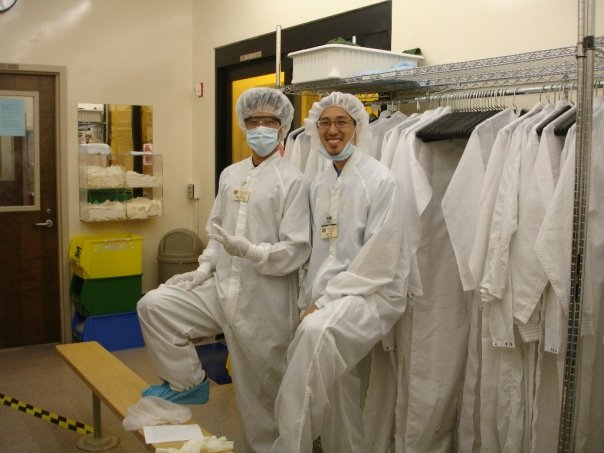
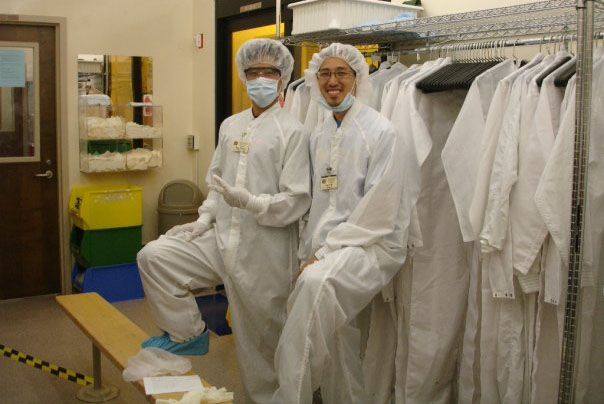
scroll functionality 99% done. standard formatting for photos (1.5 x 1 proportion)

diff --git a/index.html b/index.html
@@ -8,13 +8,13 @@
 <section class="brain-buttons">
 	<div class="right-button button">(stage) Right</div>
 	<div class="left-button button">(stage) Left</div>
-	<div class="right-arrows button hide">
-		<div class="right-up scroll-button">^^^^</div>
-		<div class="right-down scroll-button">vvvv</div>
+	<div class="right-arrows button">
+		<div class="right-up scroll-button hide">^^^^</div>
+		<div class="right-down scroll-button hide">vvvv</div>
 	</div>
-	<div class="left-arrows button hide">
-		<div class="left-up scroll-button">^^^^</div>
-		<div class="left-down scroll-button">vvvv</div>
+	<div class="left-arrows button">
+		<div class="left-up scroll-button hide">^^^^</div>
+		<div class="left-down scroll-button hide">vvvv</div>
 	</div>
 </section>
 <section class="headshot headshot-main">
@@ -49,13 +49,27 @@
 		<div class="stream-photo-frame frame-right" id="right-running">
 			<div class="stream-photo-frame-inner">
 				<img src="images/right/running.jpg" class="stream-photo"/>
-				<footer class="stream-caption">description</footer>
+				<footer class="stream-caption">
+					<header>
+						gimme at title
+					</header>
+					<p>
+						Lorem ipsum dolor sit amet, consectetur adipiscing elit. Curabitur augue dolor, aliquam in vehicula nec, eleifend id velit. Integer condimentum blandit purus ut pulvinar. Integer dictum sollicitudin bibendum. Curabitur ullamcorper lorem vitae placerat rhoncus. Phasellus eu quam nibh. Pellentesque at urna eu magna dignissim iaculis in aliquam purus. 
+					</p>
+				</footer>
 			</div>
 		</div>
 		<div class="stream-photo-frame frame-right" id="right-running">
 			<div class="stream-photo-frame-inner">
 				<img src="images/right/pokemon_conf.jpg" class="stream-photo"/>
-				<footer class="stream-caption">description</footer>
+				<footer class="stream-caption">
+					<header>
+						gimme at title
+					</header>
+					<p>
+						Lorem ipsum dolor sit amet, consectetur adipiscing elit. Curabitur augue dolor, aliquam in vehicula nec, eleifend id velit. Integer condimentum blandit purus ut pulvinar. Integer dictum sollicitudin bibendum. Curabitur ullamcorper lorem vitae placerat rhoncus. Phasellus eu quam nibh. Pellentesque at urna eu magna dignissim iaculis in aliquam purus. 
+					</p>
+				</footer>
 			</div>
 		</div>
 	</div>
@@ -77,7 +91,14 @@
 		<div class="stream-photo-frame frame-left" id="ucla-nanolab">
 			<div class="stream-photo-frame-inner">
 				<img src="images/left/ucla_nanolab.jpg" class="stream-photo"/>
-				<footer class="stream-caption">description!</footer>
+				<footer class="stream-caption">
+					<header>
+						gimme at title
+					</header>
+					<p>
+						Lorem ipsum dolor sit amet, consectetur adipiscing elit. Curabitur augue dolor, aliquam in vehicula nec, eleifend id velit. Integer condimentum blandit purus ut pulvinar. Integer dictum sollicitudin bibendum. Curabitur ullamcorper lorem vitae placerat rhoncus. Phasellus eu quam nibh. Pellentesque at urna eu magna dignissim iaculis in aliquam purus. 
+					</p>
+				</footer>
 			</div>
 		</div>
 	</div>

diff --git a/script.js b/script.js
@@ -36,11 +36,12 @@ function scrollAndStop(marker,offset,dir){
 			frameMarkerLeft = 0;
 			$('.panel-left').removeClass('on');
 			$('.panel-right').removeClass('on');
-			(marker == '.frame-right') ? $('.panel-left').addClass('on') : $('.panel-right').addClass('on');
+			$('.right-arrows .scroll-button').add($('.left-arrows .scroll-button')).addClass('hide');
+			// (marker == '.frame-right') ? $('.panel-left').addClass('on') : $('.panel-right').addClass('on');
 			//frameMarker++;
 		}
 		else{
-			if(!frameMarker >= 0) frameMarker -=2;
+			if(frameMarker >= 0) frameMarker -=2;
 			if(frameMarker < 0) frameMarker = 0;	
 			var $currMarker = $(marker);
 			for(x = 0; x < frameMarker; x++){
@@ -70,6 +71,8 @@ function adjustContentSpacing(currSection) {
 	$('.head-div').add($headshotMid).add($('.mid-stream-line')).css({'height':windowHeight/3});
 	$('.cover-stream-line').add($('.stream-line')).add($('.content')).css({'height':pageHeight});
 	$('.content-overlay').add($('.content-overlay-panel')).css({'height':pageHeight});
+	// $('.stream-photo-frame').css({'max-height':windowHeight/3});
+	$('.stream-photo').css({'max-height':windowHeight/3.2, 'max-width':'100%'});
 }
 
 function adjustContentOffset(currSection,num) {
@@ -98,6 +101,8 @@ $(document).ready(function(){
 		frameMarkerRight = 0;
 		scrollAndStop('.frame-right',windowHeight/3,'down');
 		setTimeout(function(){
+			$('.right-arrows .scroll-button').removeClass('hide');
+			$('.left-arrows .scroll-button').addClass('hide');
 			$('.panel-left').addClass('on');
 			$('.panel-right').removeClass('on');
 		},400);
@@ -107,6 +112,8 @@ $(document).ready(function(){
 		frameMarkerLeft = 0;
 		scrollAndStop('.frame-left',windowHeight/3,'down');
 		setTimeout(function(){
+			$('.left-arrows .scroll-button').removeClass('hide');
+			$('.right-arrows .scroll-button').addClass('hide');
 			$('.panel-left').removeClass('on');
 			$('.panel-right').addClass('on');
 		},400);
@@ -115,7 +122,7 @@ $(document).ready(function(){
 });
 
 $('.head-mid').waypoint(function(direction){
-	$('.cover-stream-line').add($('.button')).removeClass('hide');
+	$('.cover-stream-line').removeClass('hide');
 	$('.headshot-main').toggleClass('headshot-fixed');
 	$headshotMid.toggleClass('show');
 	if(direction=='down'){
@@ -133,10 +140,10 @@ $('.content').waypoint(function(direction){
 	}
 	else{
 		$('.headshot-mid').removeClass('bottom-border');
-		$('.panel-left').removeClass('on');
-		$('.panel-right').removeClass('on');
+		// $('.panel-left').removeClass('on');
+		// $('.panel-right').removeClass('on');
 	}
-},{offset:'33%'});
+},{offset:'34%'});
 
 $(body).waypoint(function(direction){
 	$('.headshot').addClass('hide');

diff --git a/style.css b/style.css
@@ -64,8 +64,8 @@ body {
 .content-overlay {
   position: fixed;
   width: 100%;
-  z-index: 999;
-  top: calc(33% + 6px); }
+  z-index: 799;
+  top: calc(33% ); }
   .content-overlay .content-overlay-panel {
     transition: all 0.2s ease-in;
     width: 48%;
@@ -78,6 +78,7 @@ body {
   background-color: #000;
   position: relative;
   margin: auto;
+  margin-bottom: 9em;
   z-index: 10; }
   .content .stream {
     text-align: center;
@@ -87,6 +88,13 @@ body {
     padding: 2.5%;
     padding-top: 0;
     width: 45%; }
+    @media only screen and (max-width: 800px) {
+      .content .stream {
+        padding-left: 1%;
+        padding-right: 1%;
+        width: 48%; } }
+    .content .stream.left-brain {
+      margin-top: 16.5%; }
     .content .stream .stream-line {
       position: absolute;
       width: 0px;
@@ -94,8 +102,7 @@ body {
       z-index: 1; }
     .content .stream .stream-photo-frame {
       position: relative;
-      padding: 1em;
-      margin: 1em;
+      padding-top: 1em;
       z-index: 2;
       transition: all 0.15s ease-in; }
       .content .stream .stream-photo-frame .stream-photo-frame-inner {
@@ -106,7 +113,6 @@ body {
         background-color: #000; }
         .content .stream .stream-photo-frame .stream-photo-frame-inner .stream-photo, .content .stream .stream-photo-frame .stream-photo-frame-inner .stream-caption {
           border-radius: 1em;
-          width: 100%;
           max-width: 480px;
           margin: auto;
           margin-top: 1em;

diff --git a/style.scss b/style.scss
@@ -104,8 +104,8 @@ body{
 .content-overlay{
 	position:fixed;
 	width:100%;
-	z-index:999;
-	top:calc(33% + 6px);
+	z-index:799;
+	top:calc(33% );
 	.content-overlay-panel{
 		transition: all 0.2s ease-in;
 		width:48%;
@@ -121,6 +121,7 @@ body{
 	background-color:#000;
 	position:relative;
 	margin:auto;
+	margin-bottom:9em;
 	z-index:10;
 
 	// .left-brain:hover{
@@ -140,6 +141,16 @@ body{
 		padding-top:0;
 		width:45%;
 
+		@media only screen and (max-width: 800px){
+			padding-left:1%;
+			padding-right:1%;
+			width:48%;
+		}
+
+		&.left-brain{
+			margin-top:16.5%;
+		}
+
 		.stream-line{
 			position:absolute;
 			width:0px;
@@ -149,9 +160,10 @@ body{
 		}
 
 		.stream-photo-frame{
+			// max-height:
 			position:relative;
-			padding:1em;
-			margin:1em;
+			padding-top:1em;
+			// margin:1em;
 			z-index:2;
 			transition: all 0.15s ease-in;
 			.stream-photo-frame-inner{
@@ -162,7 +174,7 @@ body{
 				background-color:#000;
 				.stream-photo, .stream-caption{
 					border-radius:1em;
-					width:100%;
+					// width:100%;
 					max-width: 480px;
 					margin: auto;
 					margin-top:1em;
